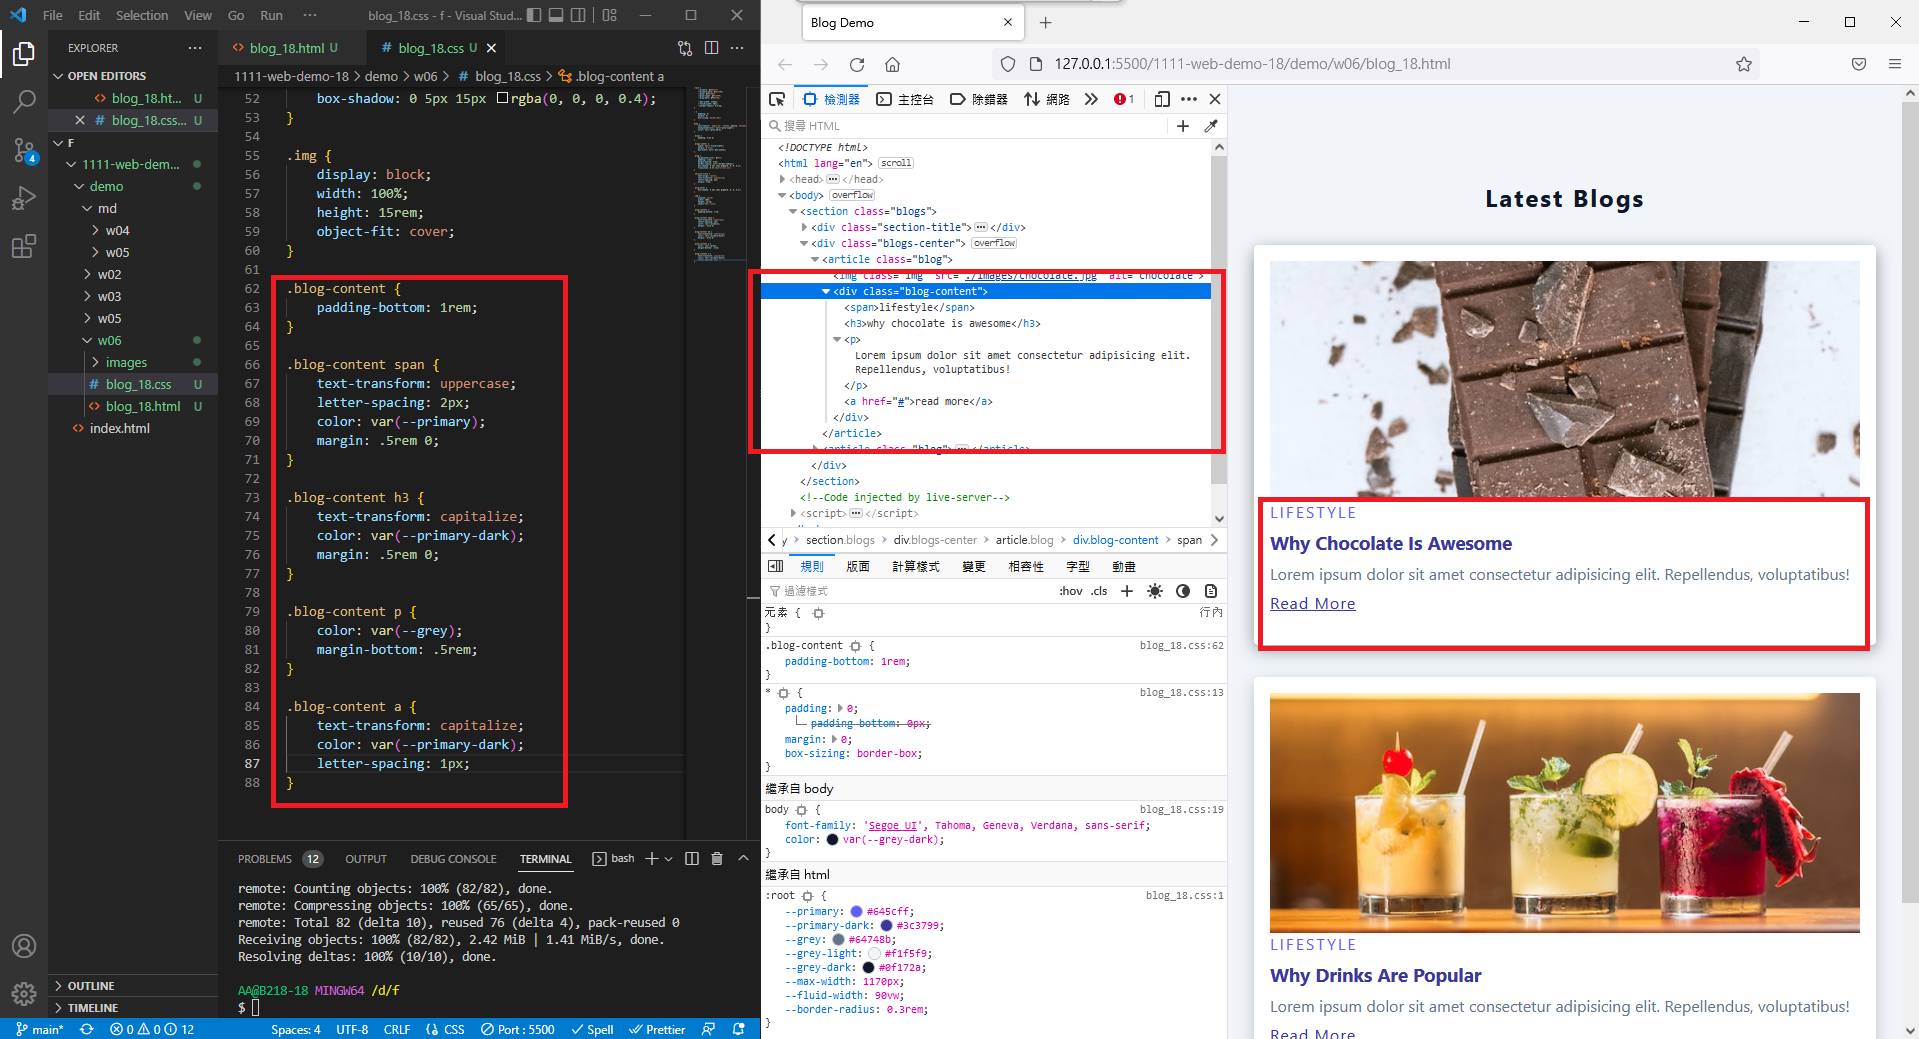
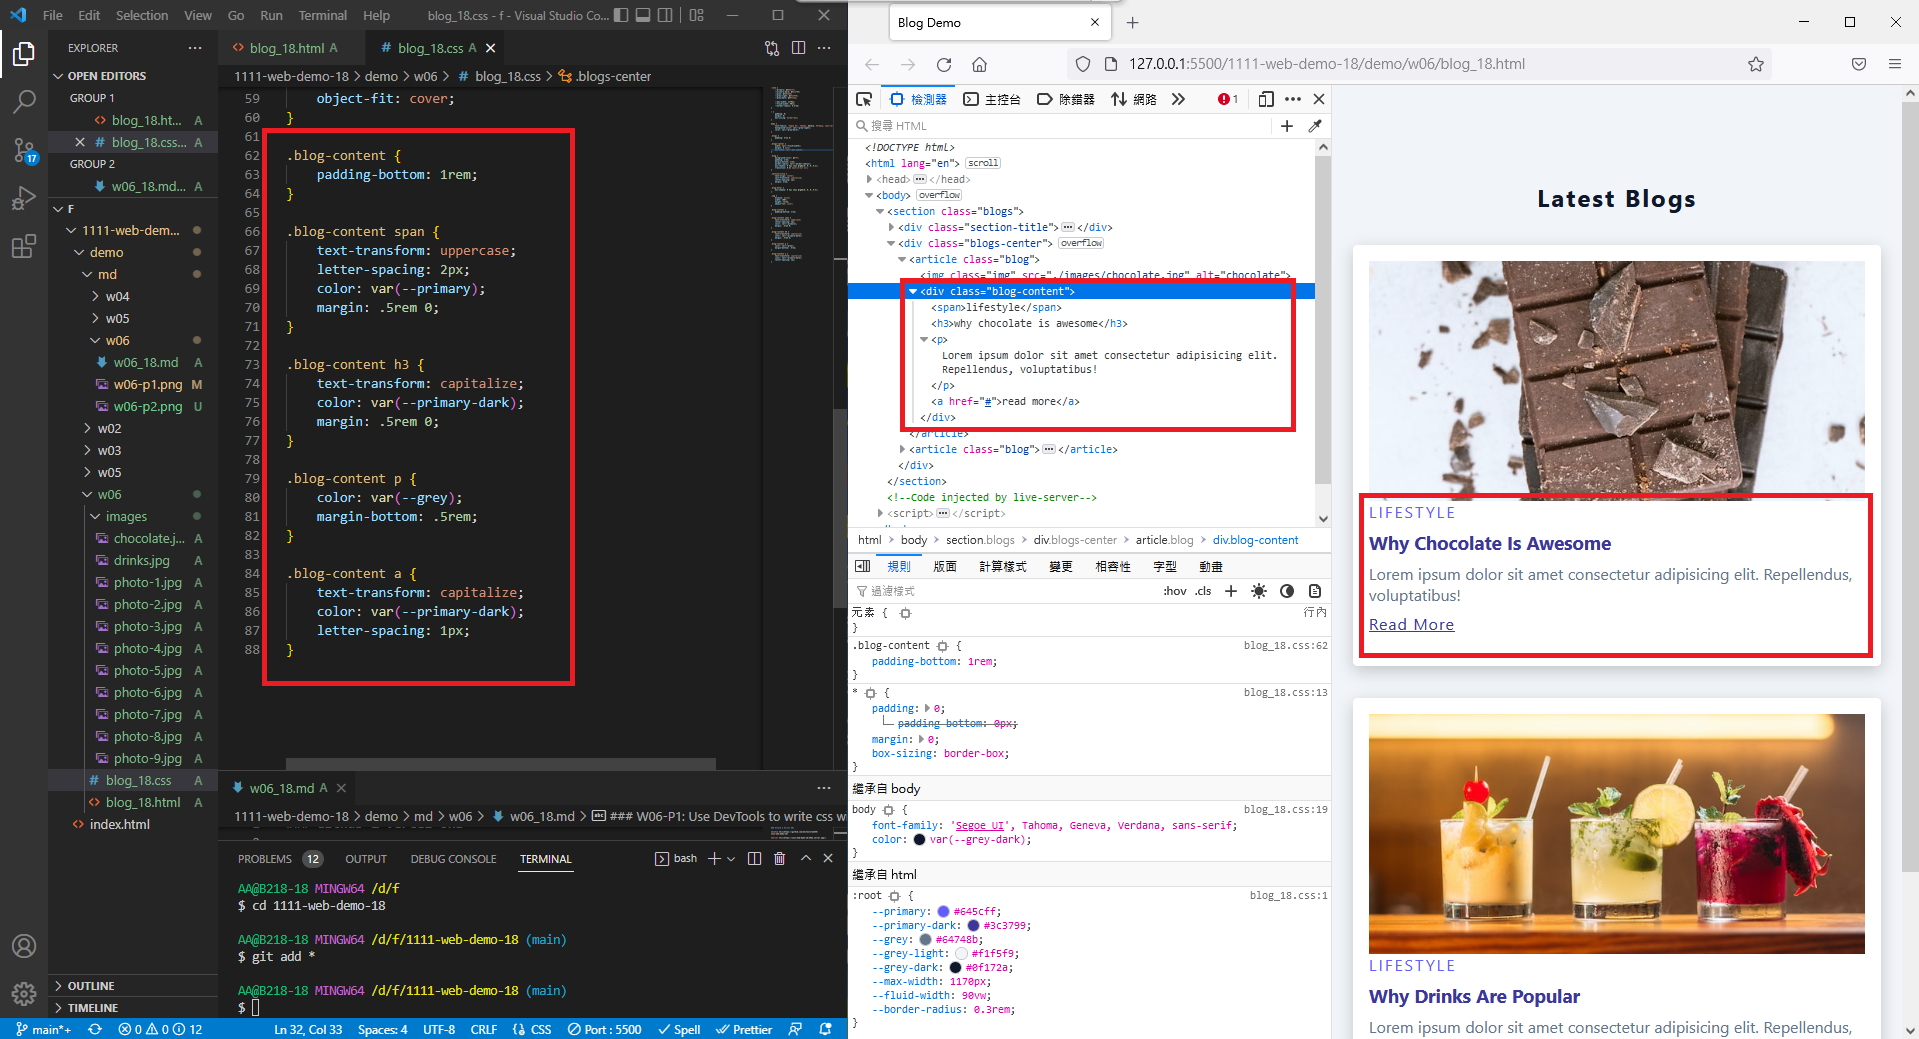
Use css grid to show 3 blogs

diff --git a/demo/w06/blog_18.html b/demo/w06/blog_18.html
@@ -32,6 +32,99 @@
                     <a href="#">read more</a>
                 </div>
             </article>
+            <article class="blog">
+                <img src="./images/photo-1.jpg" alt="drinks" class="img">
+                <div class="blog-content">
+                    <span>nature</span>
+                    <h3>near to the coastline</h3>
+                    <p>Lorem ipsum dolor sit amet consectetur adipisicing elit. Repellendus, voluptatibus!</p>
+                    <a href="#">read more</a>
+                </div>
+            </article>
+        </div>
+
+        <div class="blogs-center2">
+            <article class="blog">
+                <img src="./images/photo-1.jpg" alt="drinks" class="img">
+                <div class="blog-content">
+                    <span>nature</span>
+                    <h3>near to the coastline</h3>
+                    <p>Lorem ipsum dolor sit amet consectetur adipisicing elit. Repellendus, voluptatibus!</p>
+                    <a href="#">read more</a>
+                </div>
+            </article>
+            <article class="blog">
+                <img src="./images/photo-2.jpg" alt="drinks" class="img">
+                <div class="blog-content">
+                    <span>nature</span>
+                    <h3>near to the coastline</h3>
+                    <p>Lorem ipsum dolor sit amet consectetur adipisicing elit. Repellendus, voluptatibus!</p>
+                    <a href="#">read more</a>
+                </div>
+            </article>
+            <article class="blog">
+                <img src="./images/photo-3.jpg" alt="drinks" class="img">
+                <div class="blog-content">
+                    <span>nature</span>
+                    <h3>near to the coastline</h3>
+                    <p>Lorem ipsum dolor sit amet consectetur adipisicing elit. Repellendus, voluptatibus!</p>
+                    <a href="#">read more</a>
+                </div>
+            </article>
+            <article class="blog">
+                <img src="./images/photo-4.jpg" alt="drinks" class="img">
+                <div class="blog-content">
+                    <span>nature</span>
+                    <h3>near to the coastline</h3>
+                    <p>Lorem ipsum dolor sit amet consectetur adipisicing elit. Repellendus, voluptatibus!</p>
+                    <a href="#">read more</a>
+                </div>
+            </article>
+            <article class="blog">
+                <img src="./images/photo-5.jpg" alt="drinks" class="img">
+                <div class="blog-content">
+                    <span>nature</span>
+                    <h3>near to the coastline</h3>
+                    <p>Lorem ipsum dolor sit amet consectetur adipisicing elit. Repellendus, voluptatibus!</p>
+                    <a href="#">read more</a>
+                </div>
+            </article>
+            <article class="blog">
+                <img src="./images/photo-6.jpg" alt="drinks" class="img">
+                <div class="blog-content">
+                    <span>nature</span>
+                    <h3>near to the coastline</h3>
+                    <p>Lorem ipsum dolor sit amet consectetur adipisicing elit. Repellendus, voluptatibus!</p>
+                    <a href="#">read more</a>
+                </div>
+            </article>
+            <article class="blog">
+                <img src="./images/photo-7.jpg" alt="drinks" class="img">
+                <div class="blog-content">
+                    <span>nature</span>
+                    <h3>near to the coastline</h3>
+                    <p>Lorem ipsum dolor sit amet consectetur adipisicing elit. Repellendus, voluptatibus!</p>
+                    <a href="#">read more</a>
+                </div>
+            </article>
+            <article class="blog">
+                <img src="./images/photo-8.jpg" alt="drinks" class="img">
+                <div class="blog-content">
+                    <span>nature</span>
+                    <h3>near to the coastline</h3>
+                    <p>Lorem ipsum dolor sit amet consectetur adipisicing elit. Repellendus, voluptatibus!</p>
+                    <a href="#">read more</a>
+                </div>
+            </article>
+            <article class="blog">
+                <img src="./images/photo-9.jpg" alt="drinks" class="img">
+                <div class="blog-content">
+                    <span>nature</span>
+                    <h3>near to the coastline</h3>
+                    <p>Lorem ipsum dolor sit amet consectetur adipisicing elit. Repellendus, voluptatibus!</p>
+                    <a href="#">read more</a>
+                </div>
+            </article>
         </div>
     </section>
 </body>

diff --git a/demo/w06/blog_18.css b/demo/w06/blog_18.css
@@ -27,6 +27,18 @@ body {
 }
 
 .blogs-center {
+    display: grid;
+    grid-template-columns: 1fr 1fr 1fr;
+    gap: 2rem;
+    width: var(--fluid-width);
+    margin: 0 auto;
+    max-width: var(--max-width);
+}
+
+.blogs-center2 {
+    display: grid;
+    grid-template-columns: repeat(auto-fit, minmax(15rem, 1fr));
+    gap: 2rem;
     width: var(--fluid-width);
     margin: 0 auto;
     max-width: var(--max-width);

diff --git a/demo/md/w06/w06_18.md b/demo/md/w06/w06_18.md
@@ -4,10 +4,14 @@
 
 [Vercel URL](https://1111-web-demo-18-m55w.vercel.app/)
 
-### W06-P1: Use DevTools to write css with img class selector
+### W06-P1: Add blog content with css
 
 ![](w06-p1.png)
 
-### W06-P2: Add more details for blog class selector
+### W06-P2: Use css grid to show 3 blogs
 
-![]()
+![](w06-p2.png)
+
+### W06-P3: WS all logs
+
+![](w06-p3.png)
